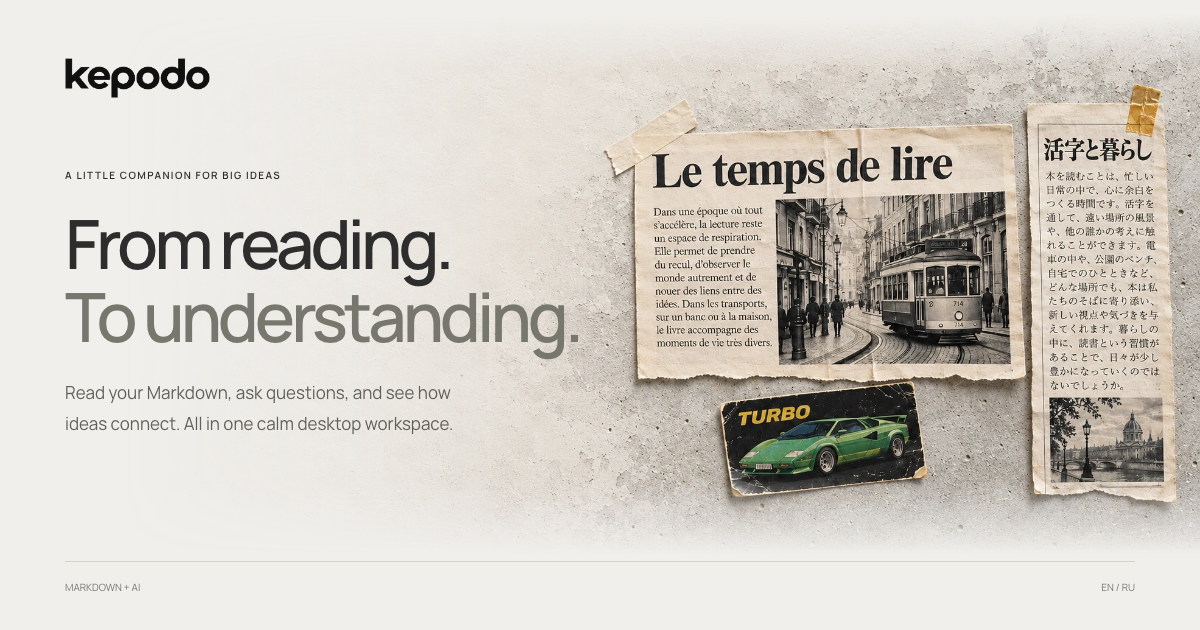
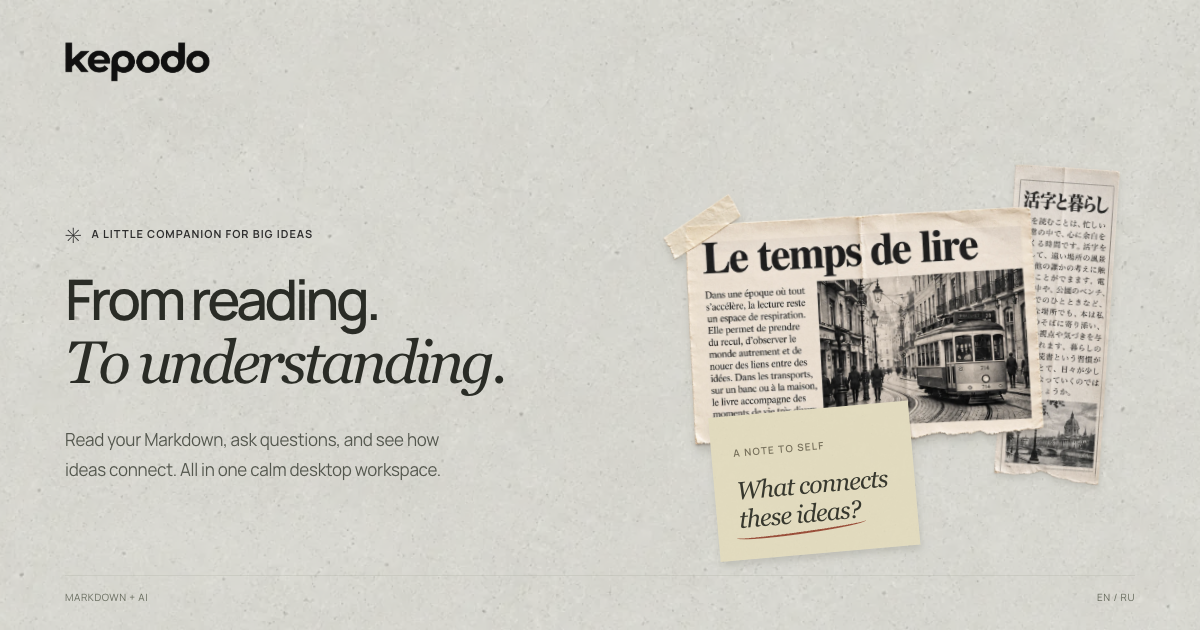
Refine hero with concrete and layered newspaper clippings

diff --git a/src/styles.css b/src/styles.css
@@ -64,33 +64,48 @@ h1{font-size:clamp(56px,6.6vw,94px);font-weight:550;line-height:1.03}h1>span{col
 @media(max-width:900px){.notes-figure .screenshot{height:340px}.menu-toggle{display:inline-grid}}
 @media(max-width:650px){.notes-figure .screenshot{height:285px}}
 
-/* A transparent header floats over one continuous illustrated opening. */
-.hero{position:relative;isolation:isolate;overflow:hidden;min-height:clamp(720px,50vw,920px);display:flex;align-items:center;margin-bottom:0}
-.hero-inner{position:relative;z-index:1;padding-block:168px 76px}
-.hero-copy{width:56%;max-width:650px}
-.hero h1{font-size:clamp(52px,5.55vw,84px);letter-spacing:-.06em;line-height:1.07}
-.hero h1>span{white-space:nowrap;color:#77776e}
-.hero-description{max-width:490px;color:#605f58;line-height:1.65}
-.hero-art{position:absolute;top:0;right:0;width:90%;aspect-ratio:2;z-index:-1;pointer-events:none;mask-image:linear-gradient(to bottom,#000 68%,#000d 78%,#0005 91%,transparent 100%)}
-.hero-art img{width:100%;max-width:none;height:100%;object-fit:cover;mask-image:linear-gradient(to right,transparent,#000 35%)}
-.hero-actions{flex-wrap:wrap}
-.hero-meta{flex-wrap:wrap;gap:12px 24px}
-.tour{position:relative;z-index:1;padding-top:8px}
+/* Fine concrete, live typography, and independently arranged newspaper cutouts. */
+.hero{position:relative;isolation:isolate;overflow:hidden;background:#deded6;border-bottom:1px solid #bdbfb14d;margin-bottom:0}
+.hero::before{content:'';position:absolute;inset:0;z-index:-1;pointer-events:none;background:url('assets/hero-concrete.webp') center top / 1440px auto repeat;opacity:.42}
+.hero-inner{display:grid;grid-template-columns:minmax(0,1.08fr) minmax(0,1fr);align-items:center;gap:64px;padding-block:166px 68px;min-height:760px}
+.hero-copy{position:relative;z-index:1;width:auto;max-width:none;padding-bottom:20px}
+.hero h1{font-size:clamp(52px,5.1vw,76px);font-weight:550;letter-spacing:-.065em;line-height:1.09;color:#292c25}
+.hero h1>span{font-family:Georgia,'Times New Roman',serif;font-size:1.07em;font-style:italic;font-weight:400;letter-spacing:-.058em;color:inherit;white-space:nowrap}
+.hero-eyebrow{font-size:13px;letter-spacing:.085em;margin-bottom:31px;line-height:1.5}
+.hero-description{max-width:470px;font-size:19px;color:#53574d;line-height:1.75;margin-top:30px}
+.hero-actions{flex-wrap:wrap;gap:24px;margin-top:31px}
+.hero .button{border-radius:3px;background:#2c3027;border-color:#2c3027;min-height:56px;font-size:17px;padding-inline:23px;gap:22px}
+.hero .button:hover{background:#424839;box-shadow:0 3px 8px #29302510}
+.hero .text-link{font-size:17px;gap:8px}
+.hero-meta{flex-wrap:wrap;gap:10px 23px;margin-top:26px;color:#606555;font-size:13px}
+.hero-meta .icon{width:15px;height:15px}
+.hero-collage{position:relative;width:100%;aspect-ratio:1.06;max-width:590px;margin-inline:auto;pointer-events:none;user-select:none}
+.clipping{position:absolute;height:auto;max-width:none;filter:drop-shadow(1px 6px 4px #30332525)}
+.clipping-french{width:92%;left:-3%;top:9%;z-index:2;transform:rotate(-3deg)}
+.clipping-japanese{width:31%;right:-2%;top:1%;z-index:1;transform:rotate(4deg);filter:drop-shadow(1px 4px 3px #30332520)}
+.collage-note{position:absolute;left:13%;bottom:5%;z-index:3;width:43%;padding:20px 22px 26px;background:#e6debf;transform:rotate(-5deg);box-shadow:1px 5px 7px #37392924;color:#38392e}
+.collage-note::after{content:'';position:absolute;inset:0;pointer-events:none;background:url('assets/hero-concrete.webp') center / 900px auto;mix-blend-mode:multiply;opacity:.08}
+.note-label{font-size:10px;font-weight:600;letter-spacing:.12em;text-transform:uppercase;color:#79715a}
+.collage-note p{font-family:Georgia,'Times New Roman',serif;font-style:italic;font-size:clamp(20px,2.1vw,29px);line-height:1.15;letter-spacing:-.04em;margin-top:12px}
+.collage-note p>span{position:relative;display:inline-block;white-space:nowrap}
+.collage-note p>span::after{content:'';position:absolute;left:-3px;right:-4px;bottom:-5px;height:9px;border-bottom:2px solid #a84b35;border-radius:50%;transform:rotate(-3deg)}
+.collage-caption{position:absolute;right:1%;bottom:0;font-family:Georgia,'Times New Roman',serif;font-size:14px;font-style:italic;color:#666a5b;transform:rotate(2deg)}
+.header-inner{height:100px}
+.desktop-nav{margin-left:20px;gap:28px}
+.desktop-nav a{font-size:16px;color:#53574b}
+.header-end{gap:24px}
+.language-switch{font-size:14px}
+.button{min-height:56px}
+.header-cta{background:transparent;color:#30342a;border:0;border-bottom:1px solid #5f6454;border-radius:0;padding:8px 0;min-height:0;font-size:16px;gap:13px}
+.header-cta:hover{background:transparent;color:#626e50;box-shadow:none;transform:none}
+.mobile-nav{background:#e9e9dff5;border-radius:5px}
+.tour{position:relative;z-index:1;padding-top:36px}
 .tour-topline{margin-bottom:26px}
 .tour-explanation{align-items:start}
 .tour-explanation p{max-width:700px}
 .workflow-steps h3{margin-bottom:18px}
 .workflow-steps p{margin-top:0}
 .eyebrow{letter-spacing:.09em}
-.hero-eyebrow{font-size:14px;letter-spacing:.08em}
-.language-switch{font-size:14px}
-.header-end{gap:24px}
-.header-inner{height:96px}
-.desktop-nav{margin-left:20px;gap:28px}
-.desktop-nav a{font-size:16px;color:#53534c}
-.button-small{font-size:16px;min-height:48px;padding:12px 20px}
-.hero .button,.hero .text-link{font-size:17px}
-.button{min-height:56px}
 .connection-groups .eyebrow{font-size:13px}
 .screenshot-note,.fine-print,.cta-note{font-size:14px}
 .conversation-features{font-size:15px}
@@ -100,9 +115,9 @@ h1{font-size:clamp(56px,6.6vw,94px);font-weight:550;line-height:1.03}h1>span{col
 .extra-card>p,.proof-copy p,.connection-groups p:not(.eyebrow),.workflow-steps p,.privacy-note p,.faq-answer p{font-size:17px;line-height:1.75}
 .extra-card .text-link,.faq-answer .text-link,.cta-actions>.text-link{font-size:16px}
 .cta-note{max-width:620px}
-.hero::before{content:'';position:absolute;inset:0;z-index:-2;pointer-events:none;display:none}
-@media(min-width:1600px){.hero-copy{width:57%}.hero-inner{padding-block:174px 88px}}
-@media(max-width:1150px) and (min-width:901px){.hero-inner{padding-block:145px 65px}.hero-description{max-width:420px;font-size:19px}.hero-actions{gap:18px}.hero .button,.hero .text-link{font-size:16px}.hero .button{padding-inline:20px}.desktop-nav{gap:18px}.header-end{gap:18px}}
-@media(max-width:900px){.hero{flex-direction:column;min-height:0;margin-bottom:12px}.hero::before{display:block;background:url('assets/hero-collage-960.webp') left top / auto 1100px no-repeat;opacity:.65;mask-image:linear-gradient(#000,transparent 75%)}.hero-inner{padding-block:135px 0}.hero-copy{width:100%;max-width:650px}.hero h1{font-size:64px}.hero-description{max-width:530px;font-size:20px}.hero-art{position:relative;order:2;inset:auto;z-index:0;width:min(640px,100%);aspect-ratio:1.43;margin:0 0 0 auto;mask-image:linear-gradient(to bottom,transparent,#000 14%,#000 76%,transparent)}.hero-art img{position:absolute;right:0;top:50%;transform:translateY(-50%);width:160%;height:auto;mask-image:none}.hero-art::after{content:'';position:absolute;inset:0;background:linear-gradient(to right,var(--paper),transparent 8%,transparent 95%,var(--paper));pointer-events:none}.hero-meta{margin-bottom:0}.header-inner{height:84px}.hero-eyebrow{font-size:13px}.tour-topline{gap:20px}.tour-topline>p{margin:0}.tour-tabs{align-self:flex-start}.tour-explanation{gap:12px}.feature-row,.feature-row.reverse{gap:36px}.feature-copy>p:not(.eyebrow),.section-description,.split-heading>p,.models-copy .section-description{font-size:18px}.faq-list summary{font-size:18px}.provider-list>span{font-size:18px}.footer-top{gap:28px}.footer-top nav{flex-wrap:wrap}}
-@media(max-width:650px){.hero{margin-bottom:8px}.hero-inner{padding-top:116px}.hero h1{font-size:clamp(40px,10.3vw,63px)}.hero-eyebrow{max-width:none;margin-bottom:24px;font-size:12px;line-height:1.6;gap:8px;letter-spacing:.06em}.hero-description{max-width:100%;font-size:18px;line-height:1.65}.hero-art{width:100%;max-width:510px;margin:4px auto 0}.hero-actions{gap:18px 24px}.hero .button,.hero .text-link{font-size:16px}.hero-meta{font-size:13px;gap:8px 18px}.hero-meta .icon{width:15px;height:15px}.header-inner{height:76px}.brand img{width:115px}.header-end{gap:18px}.language-switch{font-size:14px}.icon-button{width:42px;height:42px}.tour-topline>p{font-size:17px}.tour-tabs{width:100%;align-self:stretch}.tour-tabs button{font-size:14px;flex:1 1 auto;padding:11px 9px;gap:6px;white-space:nowrap}.tour-tabs .icon{display:none}.tour-explanation{padding:20px 15px}.tour-explanation h2{font-size:22px}.tour-explanation p{font-size:16px;line-height:1.7}.screenshot-note{font-size:13px;line-height:1.7}.conversation-features{justify-content:flex-start;gap:10px;font-size:14px}.conversation-features .icon{width:16px;height:16px}.provider-list{grid-template-columns:repeat(2,1fr);gap:22px 16px}.provider-list>span{font-size:16px}.providers>p{font-size:16px}.subtle-link{font-size:14px}.eyebrow,.feature-copy>.eyebrow{font-size:13px}.feature-copy>p:not(.eyebrow),.section-description,.split-heading>p,.models-copy .section-description{font-size:17px}.checklist li{font-size:16px}.feature-figure figcaption{font-size:13px}.extras-grid{grid-template-columns:1fr;gap:32px}.extra-card h3,.proof-copy h3,.connection-groups h3,.workflow-steps h3{font-size:24px}.extra-card>p,.proof-copy p,.connection-groups p:not(.eyebrow),.workflow-steps p,.privacy-note p,.faq-answer p{font-size:16px}.extra-card .text-link{font-size:16px}.workflow-steps{gap:32px}.workflow-steps li{padding:0}.workflow-steps h3{margin-bottom:12px}.privacy-note{padding:24px 20px}.privacy-note h3{font-size:18px}.fine-print,.cta-note{font-size:13px}.faq-list summary{font-size:17px}.cta-inner>p:not(.eyebrow){font-size:17px;max-width:100%}.cta-inner>.eyebrow{font-size:12px;max-width:none}.cta-inner h2{font-size:clamp(32px,8vw,44px)}.cta-actions .button,.cta-actions>.text-link{font-size:16px}.cta-note{max-width:calc(100% - 65px)}.cta-mascot{width:65px;right:15px;bottom:30px}.footer-top p,.footer-top nav a,.footer-bottom,.footer-bottom .language-switch{font-size:14px}.lightbox-toolbar p,.lightbox-caption{font-size:13px;line-height:1.6}}
-@media(max-width:360px){.hero h1{font-size:clamp(35px,10.6vw,40px)}.hero-meta{gap:10px}.hero-actions{gap:18px}.hero-eyebrow{font-size:11px}.tour-tabs button{font-size:13px;padding-inline:7px}.header-end{gap:12px}.brand img{width:108px}}
+@media(min-width:1600px){.hero-inner{gap:80px;min-height:800px;padding-block:174px 82px}}
+@media(max-width:1150px) and (min-width:901px){.hero-inner{gap:38px;min-height:690px;padding-block:143px 62px}.hero h1{font-size:clamp(48px,5.1vw,59px)}.hero-description{font-size:18px;max-width:400px}.hero-actions{gap:20px}.hero .button,.hero .text-link{font-size:16px}.hero .button{padding-inline:18px}.hero-eyebrow{font-size:12px}.collage-note{padding:16px 17px 22px}.collage-caption{font-size:12px}.desktop-nav{gap:18px}.header-end{gap:18px}}
+@media(max-width:900px){.hero-inner{grid-template-columns:1fr;gap:25px;padding-block:137px 42px;min-height:0}.hero-copy{width:100%;max-width:650px;padding:0}.hero h1{font-size:64px}.hero-description{max-width:540px;font-size:20px}.hero-collage{width:min(540px,88%);margin:0 0 0 auto}.collage-note p{font-size:28px}.hero-meta{margin-bottom:0}.header-inner{height:84px}.hero-eyebrow{font-size:13px}.tour-topline{gap:20px}.tour-topline>p{margin:0}.tour-tabs{align-self:flex-start}.tour-explanation{gap:12px}.feature-row,.feature-row.reverse{gap:36px}.feature-copy>p:not(.eyebrow),.section-description,.split-heading>p,.models-copy .section-description{font-size:18px}.faq-list summary{font-size:18px}.provider-list>span{font-size:18px}.footer-top{gap:28px}.footer-top nav{flex-wrap:wrap}}
+@media(max-width:650px){.hero::before{background-size:1000px auto}.hero-inner{padding-block:118px 34px;gap:30px}.hero h1{font-size:clamp(37px,9.7vw,61px);line-height:1.12}.hero h1>span{font-size:1.04em;letter-spacing:-.058em}.hero-eyebrow{max-width:none;font-size:12px;line-height:1.6;gap:8px;letter-spacing:.055em;margin-bottom:23px}.hero-description{max-width:100%;font-size:18px;line-height:1.7;margin-top:24px}.hero-actions{gap:19px 24px;margin-top:26px}.hero .button,.hero .text-link{font-size:16px}.hero .button{min-height:52px;padding:13px 18px;gap:16px}.hero-meta{font-size:13px;gap:9px 17px;margin-top:22px}.hero-collage{width:100%;max-width:470px;margin-inline:auto;aspect-ratio:1.02}.clipping-french{left:0;width:91%;top:10%}.clipping-japanese{right:0;width:31%}.collage-note{left:10%;bottom:5%;width:45%;padding:15px 16px 22px}.collage-note p{font-size:clamp(20px,5.7vw,27px);margin-top:8px}.note-label{font-size:9px}.collage-caption{font-size:12px;right:2%}.header-inner{height:76px}.brand img{width:115px}.header-end{gap:18px}.language-switch{font-size:14px}.icon-button{width:42px;height:42px}.tour{padding-top:26px}.tour-topline>p{font-size:17px}.tour-tabs{width:100%;align-self:stretch}.tour-tabs button{font-size:14px;display:block;flex:1;min-width:0;min-height:54px;white-space:normal;line-height:1.4;padding:8px 4px}.tour-tabs .icon{display:none}.tour-explanation{padding:20px 15px}.tour-explanation h2{font-size:22px}.tour-explanation p{font-size:16px;line-height:1.7}.screenshot-note{font-size:13px;line-height:1.7}.conversation-features{justify-content:flex-start;gap:10px;font-size:14px}.conversation-features .icon{width:16px;height:16px}.provider-list{grid-template-columns:repeat(2,1fr);gap:22px 16px}.provider-list>span{font-size:16px}.providers>p{font-size:16px}.subtle-link{font-size:14px}.eyebrow,.feature-copy>.eyebrow{font-size:13px}.hero-eyebrow{font-size:12px}.feature-copy>p:not(.eyebrow),.section-description,.split-heading>p,.models-copy .section-description{font-size:17px}.checklist li{font-size:16px}.feature-figure figcaption{font-size:13px}.extras-grid{grid-template-columns:1fr;gap:32px}.extra-card h3,.proof-copy h3,.connection-groups h3,.workflow-steps h3{font-size:24px}.extra-card>p,.proof-copy p,.connection-groups p:not(.eyebrow),.workflow-steps p,.privacy-note p,.faq-answer p{font-size:16px}.extra-card .text-link{font-size:16px}.workflow-steps{gap:32px}.workflow-steps li{padding:0}.workflow-steps h3{margin-bottom:12px}.privacy-note{padding:24px 20px}.privacy-note h3{font-size:18px}.fine-print,.cta-note{font-size:13px}.faq-list summary{font-size:17px}.cta-inner>p:not(.eyebrow){font-size:17px;max-width:100%}.cta-inner>.eyebrow{font-size:12px;max-width:none}.cta-inner h2{font-size:clamp(32px,8vw,44px)}.cta-actions .button,.cta-actions>.text-link{font-size:16px}.cta-note{max-width:calc(100% - 65px)}.cta-mascot{width:65px;right:15px;bottom:30px}.footer-top p,.footer-top nav a,.footer-bottom,.footer-bottom .language-switch{font-size:14px}.lightbox-toolbar p,.lightbox-caption{font-size:13px;line-height:1.6}}
+@media(max-width:360px){.hero h1{font-size:36px}.hero-meta{gap:9px 13px}.hero-actions{gap:18px}.hero-eyebrow{font-size:12px}.header-end{gap:12px}.brand img{width:108px}.collage-note{padding:12px 13px 19px}.collage-note p{font-size:20px}.collage-caption{font-size:11px}}
+@media print{.hero{background:white;border:0}.hero::before,.hero-collage{display:none}.hero-inner{display:block;min-height:0;padding-block:35px}}

diff --git a/docs/hero-art-direction.md b/docs/hero-art-direction.md
@@ -1,3 +1,42 @@
+# Editorial hero — concrete and newspaper
+
+The opening combines a quiet concrete wall, independently positioned French and Japanese newspaper cutouts, and a small live-HTML note. The product headline remains selectable and localized, pairing Manrope with an italic Georgia second line. All decorative pieces stay in a separate grid column on desktop and move below the copy on phones. The header stays transparent. Buttons in the opening use restrained rectangular shapes.
+
+## Final project assets
+
+- `public/assets/hero-concrete.webp` — 1280 × 854, about 86 KiB. Matte warm-grey concrete, used at 42% opacity over `#deded6`.
+- `public/assets/hero-newspaper-fr.webp` — 1320 × 852, about 238 KiB, alpha preserved. Main clipping with the tram photograph and one piece of matte tape.
+- `public/assets/hero-newspaper-jp.webp` — 512 × 1281, about 117 KiB, alpha preserved. A quieter secondary clipping with no tape.
+- `public/assets/og-en.png` and `public/assets/og-ru.png` — 1200 × 630. Browser-rendered from the same hero markup, stylesheet and materials via `scripts/make-social-pages.mjs`.
+
+Generation mode: built-in `image_gen`, not the CLI fallback. The existing `public/assets/hero-collage.webp` was supplied as the visual reference for both paper cutouts. It is retained as source material, together with the earlier 960px variant; the current hero no longer loads either composite image. Generated PNGs were converted to WebP with `cwebp`; alpha was preserved and no manual raster compositing was used.
+
+The newspapers and note are decorative and hidden from assistive technology. Essential product copy, links, language controls and the real application tour remain live HTML. The note is localized: “What connects these ideas?” / “Что связывает эти идеи?”. The original screenshot tour supplies the actual product context immediately below the opening.
+
+## Final generation prompts
+
+### Concrete — new opaque texture
+
+```text
+Use case: photorealistic-natural. Asset type: seamless photographic concrete material texture for a refined reading-app website background, NOT an illustration or mockup. Generate a wide landscape image, approximately 1536 x 1024. Subject: an entirely empty, finely cast pale warm-grey cement wall, viewed perfectly straight-on at close range. The wall is matte, dry, softly mineral, with delicate natural cloudy variation, a few tiny subtle pores and fine sand grain. Target average colour #deded6, low contrast and uniform brightness across the whole canvas so dark website text is perfectly legible over it. Very soft broad diffuse frontal daylight, almost no directional shading. Cement should look tactile and real but calm, elegant and contemporary, not dirty or distressed. A seamless tile with matching edges, no visible repeating large features. No paper, no newspaper, no tape, no objects, no letters, no text, no logos, no cracks, no lines, no panels, no stains, no vignette, no gradients fading to white.
+```
+
+### French newspaper — transparent reference edit
+
+```text
+Use case: background-extraction / identity-preserve. Asset type: isolated photographic newspaper cutout for a refined editorial website. The supplied image is the visual reference. Create ONLY the large French newspaper clipping, isolated on a truly transparent alpha background. Remove the wall, the Japanese clipping and the car card. Preserve the recognizable large black serif heading exactly: "Le temps de lire", the antique black-and-white city tram photograph to the right, and a short French reading-themed article column at the left. Contemporary premium art direction: paper is pale off-white newsprint, not yellow or brown, with fine natural fibres and one subtle fold. The top and side edges are mostly scissors-cut, with a delicately torn irregular bottom edge. Keep the full newspaper, complete edges and all corners inside the canvas with small transparent margins. Layout is a landscape rectangle, approximately 1.55:1, perfectly front-on, not tilted, so rotation can be controlled in CSS. One small understated semi-transparent matte beige masking tape strip at the upper left corner, extending just beyond the newspaper. Soft diffuse daylight from upper left, very restrained contact shadow. No wall or background colour. No extra paper, no car, no website layout, no UI, no buttons, no extra logos, no watermarks, no decorative stains or exaggerated distress.
+```
+
+### Japanese newspaper — transparent reference edit
+
+```text
+Use case: background-extraction / identity-preserve. Asset type: isolated photographic Japanese newspaper clipping, a quiet secondary collage element. The supplied image is the visual reference. Create ONLY the narrow vertical Japanese newspaper clipping from the far right, on a truly transparent alpha background. Remove the French newspaper, the car and the wall. Retain the large Japanese serif headline at top and narrow Japanese newspaper text columns about everyday reading, plus a small black-and-white city photograph at the bottom. Pale cool off-white newsprint, subtle paper fibres, much less yellow than the reference. Straight neatly scissors-cut left and right edges, slightly irregular bottom, a single soft vertical fold, natural clean paper with gentle wear. The asset is an upright portrait clipping, approximately 1:2.5, perfectly front-on, no rotation; all corners completely inside the canvas with small transparent margins. Soft diffuse daylight from upper left matching the main newspaper. No tape: the main clipping alone will have tape. No strong cast shadow, no background, no car, no French paper, no extra objects, no watermarks, no UI.
+```
+
+## Previous composite artwork
+
+The earlier art direction and original landscape-generation prompt are retained below as provenance.
+
 # Hero illustration
 
 The website adapts the newspaper collage on the kepodo startup screen into a wide, tactile editorial composition. The copy stays live HTML and is localized; the illustration is shared across both languages.

diff --git a/docs/verification.md b/docs/verification.md
@@ -20,3 +20,22 @@ The browser size checks are saved in `docs/qa/layout.json`; a rendered first-scr
 - Rendered the actual hero HTML/CSS with its local font and images in both languages at 320, 390, 768, 1024, 1440, and 1600 CSS pixels. Verified headline fit, image loading, mobile ordering, and absence of horizontal overflow. No renderer errors. Checks are in `docs/qa/hero-layout.json`; desktop and mobile previews are saved alongside it.
 - In the live local site, confirmed the hero button targets the existing tour, locale links resolve correctly, and artwork is decorative for assistive technology. The T3 collaborative tab remained at 1440px despite resize requests; responsive measurements above therefore come from T3's HTML renderer. Its snapshot endpoint twice returned `Preview automation snapshot timed out after 15000ms`; HTML rendering supplied the visual checks.
 - No source changes were made to the Electron app. This revision is saved locally; publishing is a separate operation.
+
+## Transparent header and readable typography — 2026-10-27
+
+- Header now overlays the hero with a transparent background and no border. The desktop illustration starts at document y=0; a single vertical mask fades its bottom edge into the tour section. Mobile uses the same paper texture behind the header and copy, with the collage below the copy.
+- Increased navigation, buttons, body copy, captions, cards, FAQ, and footer type sizes. Product descriptions are 16–20px; small captions are 13–14px. Mobile feature cards use one column. Long tab labels wrap at 14px instead of overflowing or shrinking.
+- Removed chapter badges, workflow numbers, the tour counter, their CSS rules, and unused number fields in both locales.
+- Both local and GitHub Pages builds passed all 6 static tests. `git diff --check` passed.
+- Checked complete EN/RU layouts at desktop, tablet, and phone widths, including the 320px Russian tab labels and the 901px navigation breakpoint. No page overflow or clipped text after the tab fix. Actual browser measurements confirm transparent header, 0px border, and hero/artwork starting at y=0.
+- Verified scenario tabs, keyboard navigation, mobile menu open/Escape close, and live screenshot enlargement/close. QA measurements: `docs/qa/readability-layout.json`.
+
+## Concrete and editorial paper — 2026-10-27
+
+- Generated a new low-contrast concrete material and separate transparent French/Japanese newspaper cutouts with built-in `image_gen`. Final assets and exact prompts are documented in `hero-art-direction.md`. Concrete is about 86 KiB; paper alpha is preserved.
+- Replaced the fixed composite background with an independent grid column for the collage. Added an italic serif second headline line, quieter rectangular opening buttons, and a localized paper note with a restrained pencil underline. The header remains transparent. On phones the collage follows the copy.
+- Both local and GitHub Pages production builds passed all 6 static tests. `git diff --check` passed.
+- Checked both locales at 320, 390, 768, 901, 1024, 1440, and 1920 CSS pixels in Ego Lite. No horizontal page overflow, overflowing headline/note, or broken image with a source URL. The final 320px Russian eyebrow uses 12px type and was checked again after that adjustment.
+- Verified mobile menu open/Escape close, hero CTA, tour tabs, ArrowRight/Home selection, screenshot enlargement/Escape close, and language switching while preserving the current section.
+- Regenerated and visually checked both 1200 × 630 Open Graph PNGs using the same hero markup and stylesheet. Temporary social pages are removed by the production build.
+- The T3 snapshot endpoint twice returned `Preview automation snapshot timed out after 15000ms`; visual and interaction checks therefore used Ego Lite. Layout measurements and desktop/mobile PNGs are saved under the Git-ignored `docs/qa/editorial-*` paths.

diff --git a/README.md b/README.md
@@ -75,7 +75,7 @@ rtk npm run screenshots
 
 ## Ресурсы
 
-На первом экране — широкая адаптация газетного коллажа со стартового экрана приложения, без маскота. `public/assets/hero-collage.webp` и версия `hero-collage-960.webp` подключены через `srcset`; на телефоне композиция расположена под текстом. Происхождение, параметры и полный промпт: [docs/hero-art-direction.md](docs/hero-art-direction.md). Превью для ссылок на обеих языковых версиях используют этот же коллаж.
+На первом экране — матовый бетон, отдельные французская и японская газетные вырезки и локализованная заметка с карандашным подчёркиванием. `public/assets/hero-concrete.webp` — повторяемая фактура; `hero-newspaper-fr.webp` и `hero-newspaper-jp.webp` — WebP с прозрачностью. CSS управляет композицией независимо от заголовка; на телефоне вырезки располагаются под текстом. Происхождение, параметры и полные промпты: [docs/hero-art-direction.md](docs/hero-art-direction.md). Превью для ссылок используют ту же разметку и материалы.
 
 Manrope, маскот, wordmark и иконка скопированы из kepodo. Лицензия шрифта сохранена в `public/licenses/Manrope-OFL.txt`. Значки провайдеров взяты из уже установленного `@lobehub/icons-static-svg` 1.97.0, лицензия MIT находится в `public/licenses/Lobe-Icons-LICENSE`. Логотипы обозначают поддерживаемые подключения, а не партнёрство или одобрение провайдерами.
 
